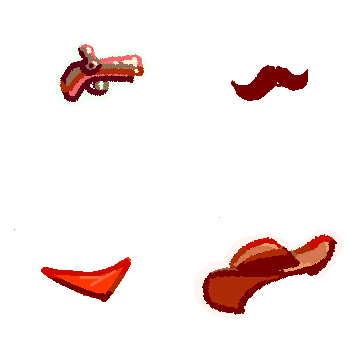
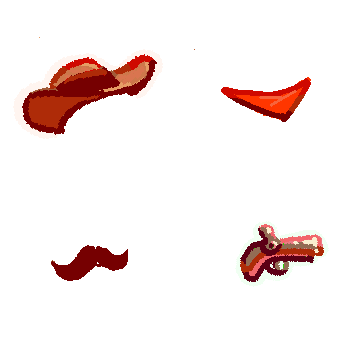
장비 아이템 데이터에 char image 넣어서 인게임에서 잘 들어오도록 했음

diff --git a/Scripts/Player/Player.cs b/Scripts/Player/Player.cs
@@ -46,7 +46,7 @@ public class Player : MonoBehaviour, IBouncable
         WeaponData wd = GameManager.instance.startingDataContainer.GetLeadWeaponData();
         anim.runtimeAnimatorController = wd.Animators.InGamePlayerAnim;
 
-        List<Item> iDatas =  GameManager.instance.startingDataContainer.GetItemDatas();
+        List<Item> iDatas = GameManager.instance.startingDataContainer.GetItemDatas();
 
         for (int i = 0; i < 4; i++)
         {
@@ -58,9 +58,9 @@ public class Player : MonoBehaviour, IBouncable
 
             if (i < 3)
             {
-            sr[i + 1].sprite = iDatas[i].charImage;
+                sr[i + 1].sprite = iDatas[i].charImage;
                 sr[i + 1].GetComponent<Transform>().SetParent(faceGroup);
-                sr[i + 1].GetComponent<Transform>().localPosition = Vector3.zero;
+                // sr[i + 1].GetComponent<Transform>().localPosition = Vector3.zero;
             }
         }
 
@@ -72,7 +72,7 @@ public class Player : MonoBehaviour, IBouncable
         // 겹치지 않도록 Essential Weapon을 숨겨야 한다면
         if (wd.hideEssentialEquipmentOnPlay)
         {
-            sr[ GameManager.instance.startingDataContainer.GetEssectialIndex() + 1].gameObject.SetActive(false); // 필수 장비를 비활성화
+            sr[GameManager.instance.startingDataContainer.GetEssectialIndex() + 1].gameObject.SetActive(false); // 필수 장비를 비활성화
         }
     }
 
